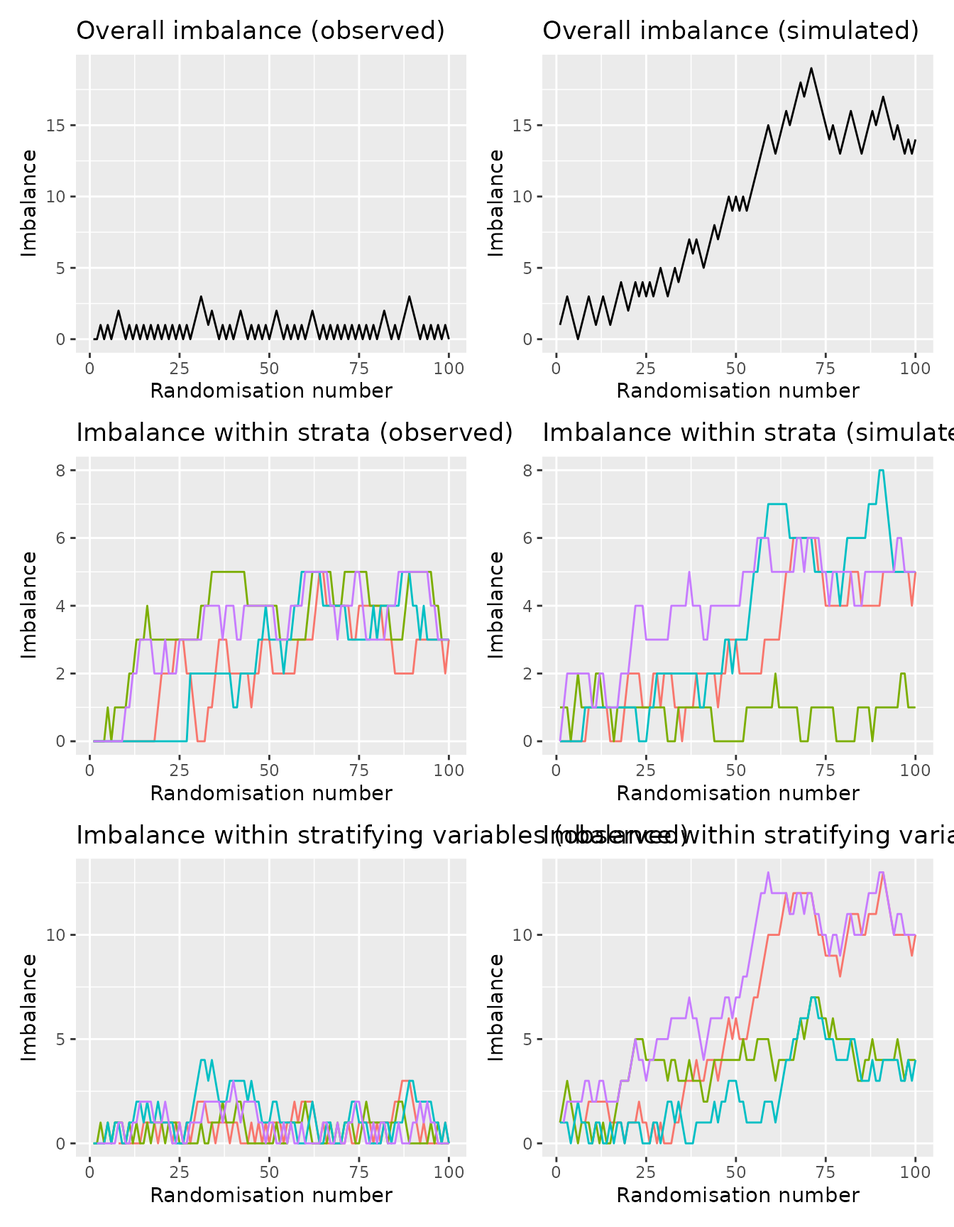
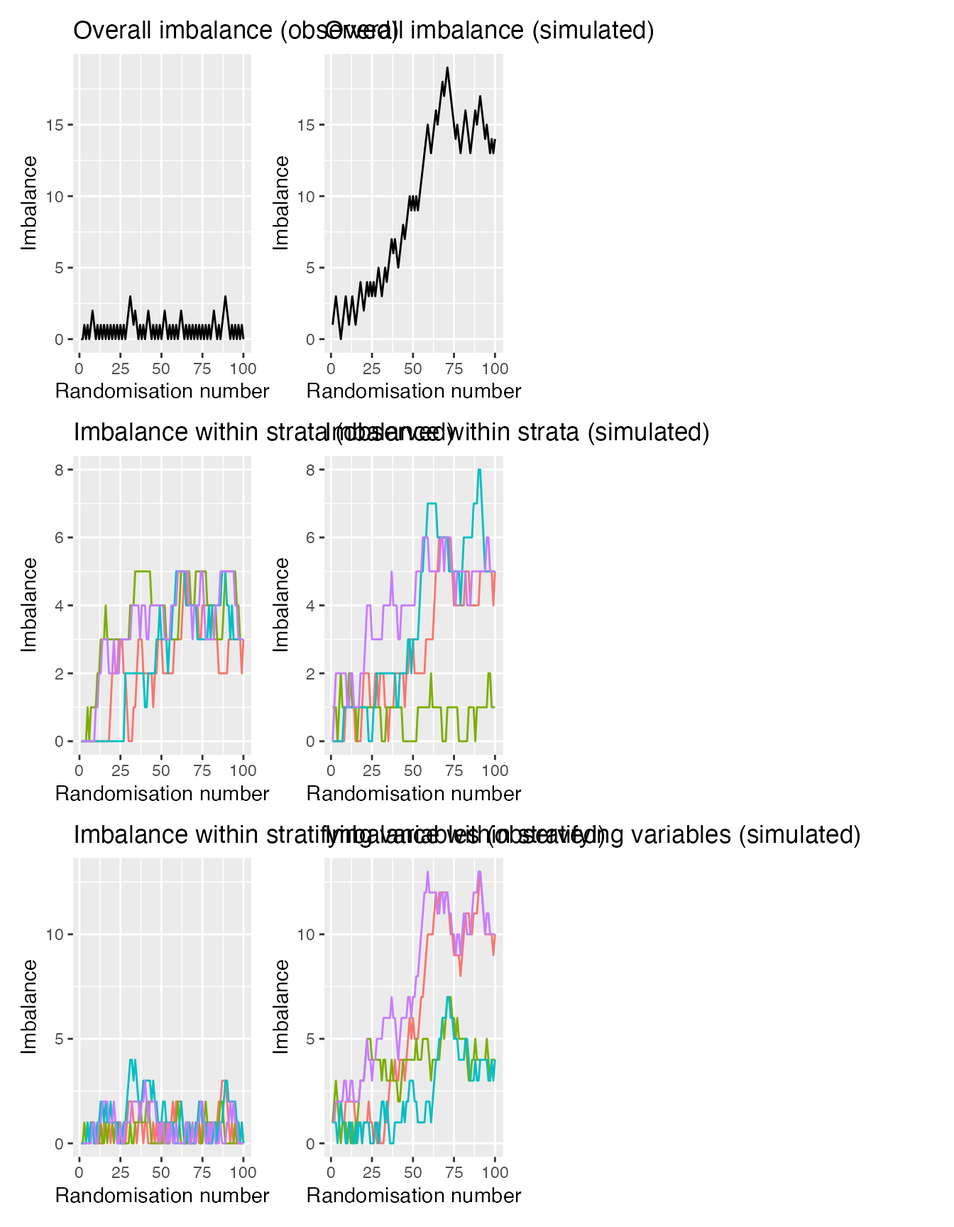
Deploying to gh-pages from @ aghaynes/randolist@fc12a616f27b094b2c52da7a669fd8df990e6f51 🚀

diff --git a/reference/imbalance_test.html b/reference/imbalance_test.html
@@ -9,7 +9,7 @@ expected via a random draw, via a permutation test."><meta property="og:image" c
 
     <a class="navbar-brand me-2" href="../index.html">randotools</a>
 
-    <small class="nav-text text-muted me-auto" data-bs-toggle="tooltip" data-bs-placement="bottom" title="">0.1.0</small>
+    <small class="nav-text text-muted me-auto" data-bs-toggle="tooltip" data-bs-placement="bottom" title="">0.1.1</small>
 
 
     <button class="navbar-toggler" type="button" data-bs-toggle="collapse" data-bs-target="#navbar" aria-controls="navbar" aria-expanded="false" aria-label="Toggle navigation">
@@ -112,43 +112,31 @@ levels in <code>randovar</code> are used and assumed to be balanced</p></dd>
 <span class="r-in"><span><span class="co"># without stratification variables</span></span></span>
 <span class="r-in"><span><span class="fu">imbalance_test</span><span class="op">(</span><span class="va">rando_balance</span>, <span class="st">"rando_res"</span><span class="op">)</span></span></span>
 <span class="r-msg co"><span class="r-pr">#&gt;</span> assuming balanced randomisation between arms</span>
-<span class="r-msg co"><span class="r-pr">#&gt;</span> Simulating randomisations <span style="color: #00BB00;">■■■■■■■■■■■■■■■■■               </span>  52% | ETA:  2s</span>
 <span class="r-out co"><span class="r-pr">#&gt;</span> Randomisations to date: 100 </span>
 <span class="r-out co"><span class="r-pr">#&gt;</span> Overall imbalance: 0 </span>
-<span class="r-out co"><span class="r-pr">#&gt;</span>   Probability of less imbalance from random allocation: 0.072 </span>
+<span class="r-out co"><span class="r-pr">#&gt;</span>   Probability of equal or less imbalance from random allocation: 0.072 </span>
 <span class="r-in"><span><span class="va">imb</span> <span class="op">&lt;-</span> <span class="fu">imbalance_test</span><span class="op">(</span><span class="va">rando_balance</span>, <span class="st">"rando_res"</span>, stratavars <span class="op">=</span> <span class="st">"strat1"</span><span class="op">)</span></span></span>
 <span class="r-msg co"><span class="r-pr">#&gt;</span> assuming balanced randomisation between arms</span>
-<span class="r-msg co"><span class="r-pr">#&gt;</span> Simulating randomisations <span style="color: #00BB00;">■■■■■■■■■■                      </span>  31% | ETA:  9s</span>
-<span class="r-msg co"><span class="r-pr">#&gt;</span> Simulating randomisations <span style="color: #00BB00;">■■■■■■■■■■■■■■■■■■■■■■■■■       </span>  78% | ETA:  3s</span>
+<span class="r-msg co"><span class="r-pr">#&gt;</span> Simulating randomisations <span style="color: #00BB00;">■■■■■■■■■■■■■■■■■■■             </span>  61% | ETA:  3s</span>
 <span class="r-in"><span><span class="fu">imbalance_test</span><span class="op">(</span><span class="va">rando_balance</span>, <span class="st">"rando_res"</span>, stratavars <span class="op">=</span> <span class="fu"><a href="https://rdrr.io/r/base/c.html" class="external-link">c</a></span><span class="op">(</span><span class="st">"strat1"</span>, <span class="st">"strat2"</span><span class="op">)</span><span class="op">)</span></span></span>
 <span class="r-msg co"><span class="r-pr">#&gt;</span> assuming balanced randomisation between arms</span>
-<span class="r-msg co"><span class="r-pr">#&gt;</span> Simulating randomisations <span style="color: #00BB00;">■■■■                            </span>  11% | ETA: 27s</span>
-<span class="r-msg co"><span class="r-pr">#&gt;</span> Simulating randomisations <span style="color: #00BB00;">■■■■■■■■■■                      </span>  32% | ETA: 20s</span>
-<span class="r-msg co"><span class="r-pr">#&gt;</span> Simulating randomisations <span style="color: #00BB00;">■■■■■■■■■■■■■■                  </span>  42% | ETA: 17s</span>
-<span class="r-msg co"><span class="r-pr">#&gt;</span> Simulating randomisations <span style="color: #00BB00;">■■■■■■■■■■■■■■■■■               </span>  52% | ETA: 14s</span>
-<span class="r-msg co"><span class="r-pr">#&gt;</span> Simulating randomisations <span style="color: #00BB00;">■■■■■■■■■■■■■■■■■■■■            </span>  62% | ETA: 11s</span>
-<span class="r-msg co"><span class="r-pr">#&gt;</span> Simulating randomisations <span style="color: #00BB00;">■■■■■■■■■■■■■■■■■■■■■■■         </span>  73% | ETA:  8s</span>
-<span class="r-msg co"><span class="r-pr">#&gt;</span> Simulating randomisations <span style="color: #00BB00;">■■■■■■■■■■■■■■■■■■■■■■■■■■      </span>  83% | ETA:  5s</span>
-<span class="r-msg co"><span class="r-pr">#&gt;</span> Simulating randomisations <span style="color: #00BB00;">■■■■■■■■■■■■■■■■■■■■■■■■■■■■■   </span>  93% | ETA:  2s</span>
+<span class="r-msg co"><span class="r-pr">#&gt;</span> Simulating randomisations <span style="color: #00BB00;">■■■■■■■■■■                      </span>  29% | ETA: 10s</span>
+<span class="r-msg co"><span class="r-pr">#&gt;</span> Simulating randomisations <span style="color: #00BB00;">■■■■■■■■■■■■■■■■■■■■■■■         </span>  72% | ETA:  4s</span>
+<span class="r-msg co"><span class="r-pr">#&gt;</span> Simulating randomisations <span style="color: #00BB00;">■■■■■■■■■■■■■■■■■■■■■■■■■■■■■   </span>  95% | ETA:  1s</span>
 <span class="r-out co"><span class="r-pr">#&gt;</span> Randomisations to date: 100 </span>
 <span class="r-out co"><span class="r-pr">#&gt;</span> Overall imbalance: 0 </span>
-<span class="r-out co"><span class="r-pr">#&gt;</span>   Probability of less imbalance from random allocation: 0.079 </span>
+<span class="r-out co"><span class="r-pr">#&gt;</span>   Probability of equal or less imbalance from random allocation: 0.079 </span>
 <span class="r-out co"><span class="r-pr">#&gt;</span> </span>
 <span class="r-out co"><span class="r-pr">#&gt;</span> Randomisation stratified by strat1 and strat2 </span>
 <span class="r-out co"><span class="r-pr">#&gt;</span> Maximum observed imbalanced within stratifying variables: 0 </span>
-<span class="r-out co"><span class="r-pr">#&gt;</span>   Probability of less imbalance from random allocation: 0.079 </span>
+<span class="r-out co"><span class="r-pr">#&gt;</span>   Probability of equal or less imbalance from random allocation: 0.079 </span>
 <span class="r-out co"><span class="r-pr">#&gt;</span> Maximum observed imbalanced within individual strata: 3 </span>
-<span class="r-out co"><span class="r-pr">#&gt;</span>   Probability of less imbalance from random allocation: 0.109 </span>
+<span class="r-out co"><span class="r-pr">#&gt;</span>   Probability of equal or less imbalance from random allocation: 0.109 </span>
 <span class="r-in"><span><span class="va">imb</span> <span class="op">&lt;-</span> <span class="fu">imbalance_test</span><span class="op">(</span><span class="va">rando_balance</span>, <span class="st">"rando_res2"</span>, stratavars <span class="op">=</span> <span class="fu"><a href="https://rdrr.io/r/base/c.html" class="external-link">c</a></span><span class="op">(</span><span class="st">"strat1"</span>, <span class="st">"strat2"</span><span class="op">)</span><span class="op">)</span></span></span>
 <span class="r-msg co"><span class="r-pr">#&gt;</span> assuming balanced randomisation between arms</span>
-<span class="r-msg co"><span class="r-pr">#&gt;</span> Simulating randomisations <span style="color: #00BB00;">■■■■■                           </span>  14% | ETA: 25s</span>
-<span class="r-msg co"><span class="r-pr">#&gt;</span> Simulating randomisations <span style="color: #00BB00;">■■■■■■■■■■■                     </span>  35% | ETA: 19s</span>
-<span class="r-msg co"><span class="r-pr">#&gt;</span> Simulating randomisations <span style="color: #00BB00;">■■■■■■■■■■■■■■■                 </span>  45% | ETA: 16s</span>
-<span class="r-msg co"><span class="r-pr">#&gt;</span> Simulating randomisations <span style="color: #00BB00;">■■■■■■■■■■■■■■■■■■              </span>  56% | ETA: 13s</span>
-<span class="r-msg co"><span class="r-pr">#&gt;</span> Simulating randomisations <span style="color: #00BB00;">■■■■■■■■■■■■■■■■■■■■■           </span>  66% | ETA: 10s</span>
-<span class="r-msg co"><span class="r-pr">#&gt;</span> Simulating randomisations <span style="color: #00BB00;">■■■■■■■■■■■■■■■■■■■■■■■■        </span>  76% | ETA:  7s</span>
-<span class="r-msg co"><span class="r-pr">#&gt;</span> Simulating randomisations <span style="color: #00BB00;">■■■■■■■■■■■■■■■■■■■■■■■■■■■     </span>  87% | ETA:  4s</span>
-<span class="r-msg co"><span class="r-pr">#&gt;</span> Simulating randomisations <span style="color: #00BB00;">■■■■■■■■■■■■■■■■■■■■■■■■■■■■■■  </span>  97% | ETA:  1s</span>
+<span class="r-msg co"><span class="r-pr">#&gt;</span> Simulating randomisations <span style="color: #00BB00;">■■■■■■                          </span>  17% | ETA: 11s</span>
+<span class="r-msg co"><span class="r-pr">#&gt;</span> Simulating randomisations <span style="color: #00BB00;">■■■■■■■■■■■■■■■■■■■■            </span>  62% | ETA:  5s</span>
+<span class="r-msg co"><span class="r-pr">#&gt;</span> Simulating randomisations <span style="color: #00BB00;">■■■■■■■■■■■■■■■■■■■■■■■■■■■     </span>  85% | ETA:  2s</span>
 </code></pre></div>
     </div>
   </main><aside class="col-md-3"><nav id="toc" aria-label="Table of contents"><h2>On this page</h2>

diff --git a/reference/imbalance_test_plot.html b/reference/imbalance_test_plot.html
@@ -1,8 +1,8 @@
 <!DOCTYPE html>
-<!-- Generated by pkgdown: do not edit by hand --><html lang="en"><head><meta http-equiv="Content-Type" content="text/html; charset=UTF-8"><meta charset="utf-8"><meta http-equiv="X-UA-Compatible" content="IE=edge"><meta name="viewport" content="width=device-width, initial-scale=1, shrink-to-fit=no"><title>Plot imbalance and simulation and test results — imbalance_test_plot • randotools</title><!-- favicons --><link rel="icon" type="image/png" sizes="96x96" href="../favicon-96x96.png"><link rel="icon" type="”image/svg+xml”" href="../favicon.svg"><link rel="apple-touch-icon" sizes="180x180" href="../apple-touch-icon.png"><link rel="icon" sizes="any" href="../favicon.ico"><link rel="manifest" href="../site.webmanifest"><script src="../lightswitch.js"></script><script src="../deps/jquery-3.6.0/jquery-3.6.0.min.js"></script><meta name="viewport" content="width=device-width, initial-scale=1, shrink-to-fit=no"><link href="../deps/bootstrap-5.3.1/bootstrap.min.css" rel="stylesheet"><script src="../deps/bootstrap-5.3.1/bootstrap.bundle.min.js"></script><link href="../deps/font-awesome-6.5.2/css/all.min.css" rel="stylesheet"><link href="../deps/font-awesome-6.5.2/css/v4-shims.min.css" rel="stylesheet"><script src="../deps/headroom-0.11.0/headroom.min.js"></script><script src="../deps/headroom-0.11.0/jQuery.headroom.min.js"></script><script src="../deps/bootstrap-toc-1.0.1/bootstrap-toc.min.js"></script><script src="../deps/clipboard.js-2.0.11/clipboard.min.js"></script><script src="../deps/search-1.0.0/autocomplete.jquery.min.js"></script><script src="../deps/search-1.0.0/fuse.min.js"></script><script src="../deps/search-1.0.0/mark.min.js"></script><!-- pkgdown --><script src="../pkgdown.js"></script><meta property="og:title" content="Plot imbalance and simulation and test results — imbalance_test_plot"><meta name="description" content="Plot histograms of imbalance values from simulation results and a vertical
+<!-- Generated by pkgdown: do not edit by hand --><html lang="en"><head><meta http-equiv="Content-Type" content="text/html; charset=UTF-8"><meta charset="utf-8"><meta http-equiv="X-UA-Compatible" content="IE=edge"><meta name="viewport" content="width=device-width, initial-scale=1, shrink-to-fit=no"><title>Plot imbalance and simulation and test results — imbalance_test_plot • randotools</title><!-- favicons --><link rel="icon" type="image/png" sizes="96x96" href="../favicon-96x96.png"><link rel="icon" type="”image/svg+xml”" href="../favicon.svg"><link rel="apple-touch-icon" sizes="180x180" href="../apple-touch-icon.png"><link rel="icon" sizes="any" href="../favicon.ico"><link rel="manifest" href="../site.webmanifest"><script src="../lightswitch.js"></script><script src="../deps/jquery-3.6.0/jquery-3.6.0.min.js"></script><meta name="viewport" content="width=device-width, initial-scale=1, shrink-to-fit=no"><link href="../deps/bootstrap-5.3.1/bootstrap.min.css" rel="stylesheet"><script src="../deps/bootstrap-5.3.1/bootstrap.bundle.min.js"></script><link href="../deps/font-awesome-6.5.2/css/all.min.css" rel="stylesheet"><link href="../deps/font-awesome-6.5.2/css/v4-shims.min.css" rel="stylesheet"><script src="../deps/headroom-0.11.0/headroom.min.js"></script><script src="../deps/headroom-0.11.0/jQuery.headroom.min.js"></script><script src="../deps/bootstrap-toc-1.0.1/bootstrap-toc.min.js"></script><script src="../deps/clipboard.js-2.0.11/clipboard.min.js"></script><script src="../deps/search-1.0.0/autocomplete.jquery.min.js"></script><script src="../deps/search-1.0.0/fuse.min.js"></script><script src="../deps/search-1.0.0/mark.min.js"></script><!-- pkgdown --><script src="../pkgdown.js"></script><meta property="og:title" content="Plot imbalance and simulation and test results — imbalance_test_plot"><meta name="description" content="Plot histograms of imbalance values from simulated random allocation and a vertical
 lines to indicate the observed imbalance for each randomisation level (overall,
 stratification variable level, and strata level, where appropriate). The
-p-values from the tests are included in the figure captions."><meta property="og:description" content="Plot histograms of imbalance values from simulation results and a vertical
+p-values from the tests are included in the figure captions."><meta property="og:description" content="Plot histograms of imbalance values from simulated random allocation and a vertical
 lines to indicate the observed imbalance for each randomisation level (overall,
 stratification variable level, and strata level, where appropriate). The
 p-values from the tests are included in the figure captions."><meta property="og:image" content="https://CTU-Bern.github.io/randolist/logo.png"></head><body>
@@ -13,7 +13,7 @@ p-values from the tests are included in the figure captions."><meta property="og
 
     <a class="navbar-brand me-2" href="../index.html">randotools</a>
 
-    <small class="nav-text text-muted me-auto" data-bs-toggle="tooltip" data-bs-placement="bottom" title="">0.1.0</small>
+    <small class="nav-text text-muted me-auto" data-bs-toggle="tooltip" data-bs-placement="bottom" title="">0.1.1</small>
 
 
     <button class="navbar-toggler" type="button" data-bs-toggle="collapse" data-bs-target="#navbar" aria-controls="navbar" aria-expanded="false" aria-label="Toggle navigation">
@@ -44,7 +44,7 @@ p-values from the tests are included in the figure captions."><meta property="og
     </div>
 
     <div class="ref-description section level2">
-    <p>Plot histograms of imbalance values from simulation results and a vertical
+    <p>Plot histograms of imbalance values from simulated random allocation and a vertical
 lines to indicate the observed imbalance for each randomisation level (overall,
 stratification variable level, and strata level, where appropriate). The
 p-values from the tests are included in the figure captions.</p>
@@ -84,13 +84,8 @@ plots in one column (<code>TRUE</code>) or return a list of ggplot objects (<cod
 <span class="r-in"><span><span class="co"># without stratification variables</span></span></span>
 <span class="r-in"><span><span class="va">imb</span> <span class="op">&lt;-</span> <span class="fu"><a href="imbalance_test.html">imbalance_test</a></span><span class="op">(</span><span class="va">rando_balance</span>, <span class="st">"rando_res2"</span>, stratavars <span class="op">=</span> <span class="fu"><a href="https://rdrr.io/r/base/c.html" class="external-link">c</a></span><span class="op">(</span><span class="st">"strat1"</span>, <span class="st">"strat2"</span><span class="op">)</span><span class="op">)</span></span></span>
 <span class="r-msg co"><span class="r-pr">#&gt;</span> assuming balanced randomisation between arms</span>
-<span class="r-msg co"><span class="r-pr">#&gt;</span> Simulating randomisations <span style="color: #00BB00;">■■■■■■                          </span>  17% | ETA: 24s</span>
-<span class="r-msg co"><span class="r-pr">#&gt;</span> Simulating randomisations <span style="color: #00BB00;">■■■■■■■■■■■■                    </span>  38% | ETA: 18s</span>
-<span class="r-msg co"><span class="r-pr">#&gt;</span> Simulating randomisations <span style="color: #00BB00;">■■■■■■■■■■■■■■■■                </span>  48% | ETA: 15s</span>
-<span class="r-msg co"><span class="r-pr">#&gt;</span> Simulating randomisations <span style="color: #00BB00;">■■■■■■■■■■■■■■■■■■■             </span>  59% | ETA: 12s</span>
-<span class="r-msg co"><span class="r-pr">#&gt;</span> Simulating randomisations <span style="color: #00BB00;">■■■■■■■■■■■■■■■■■■■■■■          </span>  69% | ETA:  9s</span>
-<span class="r-msg co"><span class="r-pr">#&gt;</span> Simulating randomisations <span style="color: #00BB00;">■■■■■■■■■■■■■■■■■■■■■■■■■       </span>  80% | ETA:  6s</span>
-<span class="r-msg co"><span class="r-pr">#&gt;</span> Simulating randomisations <span style="color: #00BB00;">■■■■■■■■■■■■■■■■■■■■■■■■■■■■    </span>  90% | ETA:  3s</span>
+<span class="r-msg co"><span class="r-pr">#&gt;</span> Simulating randomisations <span style="color: #00BB00;">■■■■■■■■■■                      </span>  31% | ETA:  9s</span>
+<span class="r-msg co"><span class="r-pr">#&gt;</span> Simulating randomisations <span style="color: #00BB00;">■■■■■■■■■■■■■■■■■■■■■■■■        </span>  77% | ETA:  3s</span>
 <span class="r-in"><span><span class="fu">imbalance_test_plot</span><span class="op">(</span><span class="va">imb</span><span class="op">)</span></span></span>
 <span class="r-plt img"><img src="imbalance_test_plot-1.png" alt="" width="700" height="433"></span>
 <span class="r-in"><span></span></span>

diff --git a/reference/imbalance_seq_plots.html b/reference/imbalance_seq_plots.html
@@ -19,7 +19,7 @@ variables) and within strata identified by each stratifying variable itself."><m
 
     <a class="navbar-brand me-2" href="../index.html">randotools</a>
 
-    <small class="nav-text text-muted me-auto" data-bs-toggle="tooltip" data-bs-placement="bottom" title="">0.1.0</small>
+    <small class="nav-text text-muted me-auto" data-bs-toggle="tooltip" data-bs-placement="bottom" title="">0.1.1</small>
 
 
     <button class="navbar-toggler" type="button" data-bs-toggle="collapse" data-bs-target="#navbar" aria-controls="navbar" aria-expanded="false" aria-label="Toggle navigation">
@@ -61,7 +61,13 @@ variables) and within strata identified by each stratifying variable itself.</p>
 
     <div class="section level2">
     <h2 id="ref-usage">Usage<a class="anchor" aria-label="anchor" href="#ref-usage"></a></h2>
-    <div class="sourceCode"><pre class="sourceCode r"><code><span><span class="fu">imbalance_seq_plots</span><span class="op">(</span><span class="va">data</span>, <span class="va">randovar</span>, stratavars <span class="op">=</span> <span class="cn">NULL</span>, cross <span class="op">=</span> <span class="cn">TRUE</span><span class="op">)</span></span></code></pre></div>
+    <div class="sourceCode"><pre class="sourceCode r"><code><span><span class="fu">imbalance_seq_plots</span><span class="op">(</span></span>
+<span>  <span class="va">data</span>,</span>
+<span>  <span class="va">randovar</span>,</span>
+<span>  stratavars <span class="op">=</span> <span class="cn">NULL</span>,</span>
+<span>  cross <span class="op">=</span> <span class="cn">TRUE</span>,</span>
+<span>  stack <span class="op">=</span> <span class="cn">TRUE</span></span>
+<span><span class="op">)</span></span></code></pre></div>
     </div>
 
     <div class="section level2">
@@ -84,6 +90,11 @@ variables) and within strata identified by each stratifying variable itself.</p>
 <dd><p>logical whether to cross the stratification variables to create
 the individual strata</p></dd>
 
+
+<dt id="arg-stack">stack<a class="anchor" aria-label="anchor" href="#arg-stack"></a></dt>
+<dd><p>logical whether to use <code><a href="https://patchwork.data-imaginist.com/reference/wrap_plots.html" class="external-link">patchwork::wrap_plots</a></code> to combine the
+plots into a single 2x3 figure</p></dd>
+
 </dl></div>
     <div class="section level2">
     <h2 id="value">Value<a class="anchor" aria-label="anchor" href="#value"></a></h2>
@@ -96,7 +107,8 @@ E.g., if there is a 2-level stratification variable and a 3-level variable, ther
 will be 5 lines.</p></li>
 <li><p>The third pair shows the individual strata - the combination of all stratification
 variables. For the 2- and 3-level example mentioned above, this would result
-in 6 lines. This can be skipped by setting <code>cross</code> to <code>FALSE</code>.</p></li>
+in 6 lines. This can be skipped by setting <code>cross</code> to <code>FALSE</code>.
+If <code>stack = FALSE</code>, a list of ggplots is returned.</p></li>
 </ul></div>
 
     <div class="section level2">
@@ -106,12 +118,7 @@ in 6 lines. This can be skipped by setting <code>cross</code> to <code>FALSE</co
 <span class="r-in"><span><span class="fu">imbalance_seq_plots</span><span class="op">(</span><span class="va">rando_balance</span>, <span class="st">"rando_res"</span><span class="op">)</span></span></span>
 <span class="r-msg co"><span class="r-pr">#&gt;</span> Calculating sequential imbalance (overall)</span>
 <span class="r-msg co"><span class="r-pr">#&gt;</span> Calculating simulated sequential imbalance (overall)</span>
-<span class="r-out co"><span class="r-pr">#&gt;</span> $overall_observed</span>
 <span class="r-plt img"><img src="imbalance_seq_plots-1.png" alt="" width="700" height="433"></span>
-<span class="r-out co"><span class="r-pr">#&gt;</span> </span>
-<span class="r-out co"><span class="r-pr">#&gt;</span> $overall_simulated</span>
-<span class="r-plt img"><img src="imbalance_seq_plots-2.png" alt="" width="700" height="433"></span>
-<span class="r-out co"><span class="r-pr">#&gt;</span> </span>
 <span class="r-in"><span><span class="co"># with stratification factors</span></span></span>
 <span class="r-in"><span><span class="fu">imbalance_seq_plots</span><span class="op">(</span><span class="va">rando_balance</span>, <span class="st">"rando_res"</span>,</span></span>
 <span class="r-in"><span>                    <span class="fu"><a href="https://rdrr.io/r/base/c.html" class="external-link">c</a></span><span class="op">(</span><span class="st">"strat1"</span>, <span class="st">"strat2"</span><span class="op">)</span><span class="op">)</span></span></span>
@@ -119,24 +126,7 @@ in 6 lines. This can be skipped by setting <code>cross</code> to <code>FALSE</co
 <span class="r-msg co"><span class="r-pr">#&gt;</span> Calculating simulated sequential imbalance (overall)</span>
 <span class="r-msg co"><span class="r-pr">#&gt;</span> Calculating sequential imbalance (strata)</span>
 <span class="r-msg co"><span class="r-pr">#&gt;</span> Calculating simulated sequential imbalance (strata)</span>
-<span class="r-out co"><span class="r-pr">#&gt;</span> $overall_observed</span>
-<span class="r-plt img"><img src="imbalance_seq_plots-3.png" alt="" width="700" height="433"></span>
-<span class="r-out co"><span class="r-pr">#&gt;</span> </span>
-<span class="r-out co"><span class="r-pr">#&gt;</span> $overall_simulated</span>
-<span class="r-plt img"><img src="imbalance_seq_plots-4.png" alt="" width="700" height="433"></span>
-<span class="r-out co"><span class="r-pr">#&gt;</span> </span>
-<span class="r-out co"><span class="r-pr">#&gt;</span> $strata_observed</span>
-<span class="r-plt img"><img src="imbalance_seq_plots-5.png" alt="" width="700" height="433"></span>
-<span class="r-out co"><span class="r-pr">#&gt;</span> </span>
-<span class="r-out co"><span class="r-pr">#&gt;</span> $strata_simulated</span>
-<span class="r-plt img"><img src="imbalance_seq_plots-6.png" alt="" width="700" height="433"></span>
-<span class="r-out co"><span class="r-pr">#&gt;</span> </span>
-<span class="r-out co"><span class="r-pr">#&gt;</span> $stratavar_oberved</span>
-<span class="r-plt img"><img src="imbalance_seq_plots-7.png" alt="" width="700" height="433"></span>
-<span class="r-out co"><span class="r-pr">#&gt;</span> </span>
-<span class="r-out co"><span class="r-pr">#&gt;</span> $stratavar_simulated</span>
-<span class="r-plt img"><img src="imbalance_seq_plots-8.png" alt="" width="700" height="433"></span>
-<span class="r-out co"><span class="r-pr">#&gt;</span> </span>
+<span class="r-plt img"><img src="imbalance_seq_plots-2.png" alt="" width="700" height="433"></span>
 <span class="r-in"><span><span class="co"># do not cross the stratification factors</span></span></span>
 <span class="r-in"><span><span class="fu">imbalance_seq_plots</span><span class="op">(</span><span class="va">rando_balance</span>, <span class="st">"rando_res"</span>,</span></span>
 <span class="r-in"><span>                    <span class="fu"><a href="https://rdrr.io/r/base/c.html" class="external-link">c</a></span><span class="op">(</span><span class="st">"strat1"</span>, <span class="st">"strat2"</span><span class="op">)</span>,</span></span>
@@ -145,18 +135,7 @@ in 6 lines. This can be skipped by setting <code>cross</code> to <code>FALSE</co
 <span class="r-msg co"><span class="r-pr">#&gt;</span> Calculating simulated sequential imbalance (overall)</span>
 <span class="r-msg co"><span class="r-pr">#&gt;</span> Calculating sequential imbalance (strata)</span>
 <span class="r-msg co"><span class="r-pr">#&gt;</span> Calculating simulated sequential imbalance (strata)</span>
-<span class="r-out co"><span class="r-pr">#&gt;</span> $overall_observed</span>
-<span class="r-plt img"><img src="imbalance_seq_plots-9.png" alt="" width="700" height="433"></span>
-<span class="r-out co"><span class="r-pr">#&gt;</span> </span>
-<span class="r-out co"><span class="r-pr">#&gt;</span> $overall_simulated</span>
-<span class="r-plt img"><img src="imbalance_seq_plots-10.png" alt="" width="700" height="433"></span>
-<span class="r-out co"><span class="r-pr">#&gt;</span> </span>
-<span class="r-out co"><span class="r-pr">#&gt;</span> $stratavar_oberved</span>
-<span class="r-plt img"><img src="imbalance_seq_plots-11.png" alt="" width="700" height="433"></span>
-<span class="r-out co"><span class="r-pr">#&gt;</span> </span>
-<span class="r-out co"><span class="r-pr">#&gt;</span> $stratavar_simulated</span>
-<span class="r-plt img"><img src="imbalance_seq_plots-12.png" alt="" width="700" height="433"></span>
-<span class="r-out co"><span class="r-pr">#&gt;</span> </span>
+<span class="r-plt img"><img src="imbalance_seq_plots-3.png" alt="" width="700" height="433"></span>
 <span class="r-in"><span></span></span>
 </code></pre></div>
     </div>

diff --git a/index.html b/index.html
@@ -28,7 +28,7 @@
 
     <a class="navbar-brand me-2" href="index.html">randotools</a>
 
-    <small class="nav-text text-muted me-auto" data-bs-toggle="tooltip" data-bs-placement="bottom" title="">0.1.0</small>
+    <small class="nav-text text-muted me-auto" data-bs-toggle="tooltip" data-bs-placement="bottom" title="">0.1.1</small>
 
 
     <button class="navbar-toggler" type="button" data-bs-toggle="collapse" data-bs-target="#navbar" aria-controls="navbar" aria-expanded="false" aria-label="Toggle navigation">
@@ -75,7 +75,7 @@
 <p>You can install the development version of <code>randotools</code> from github with:</p>
 <!-- install.packages("randotools") -->
 <div class="sourceCode" id="cb1"><pre class="downlit sourceCode r">
-<code class="sourceCode R"><span><span class="fu">remotes</span><span class="fu">::</span><span class="fu">install_github</span><span class="op">(</span><span class="st">"CTU-Bern/randotools"</span><span class="op">)</span></span></code></pre></div>
+<code class="sourceCode R"><span><span class="fu">remotes</span><span class="fu">::</span><span class="fu"><a href="https://remotes.r-lib.org/reference/install_github.html" class="external-link">install_github</a></span><span class="op">(</span><span class="st">"CTU-Bern/randotools"</span><span class="op">)</span></span></code></pre></div>
 <!-- Or from CTU Bern's package universe -->
 <!-- ``` r -->
 <!-- install.packages("randotools", repos = c('https://ctu-bern.r-universe.dev', 'https://cloud.r-project.org')) -->
@@ -174,7 +174,7 @@
 <div class="dev-status">
 <h2 data-toc-skip>Dev status</h2>
 <ul class="list-unstyled">
-<li><a href="https://github.com/CTU-Bern/randotools" class="external-link"><img src="https://img.shields.io/badge/dev%20version-0.1.0-blue.svg"></a></li>
+<li><a href="https://github.com/CTU-Bern/randotools" class="external-link"><img src="https://img.shields.io/badge/dev%20version-0.1.1-blue.svg"></a></li>
 <li><a href="https://github.com/CTU-Bern/randotools/actions" class="external-link"><img src="https://github.com/CTU-Bern/randotools/workflows/R-CMD-check/badge.svg" alt="R-CMD-check"></a></li>
 </ul>
 </div>

diff --git a/articles/imbalance.html b/articles/imbalance.html
@@ -25,7 +25,7 @@
 
     <a class="navbar-brand me-2" href="../index.html">randotools</a>
 
-    <small class="nav-text text-muted me-auto" data-bs-toggle="tooltip" data-bs-placement="bottom" title="">0.1.0</small>
+    <small class="nav-text text-muted me-auto" data-bs-toggle="tooltip" data-bs-placement="bottom" title="">0.1.1</small>
 
 
     <button class="navbar-toggler" type="button" data-bs-toggle="collapse" data-bs-target="#navbar" aria-controls="navbar" aria-expanded="false" aria-label="Toggle navigation">
@@ -152,13 +152,13 @@ want a small p-value.</p>
 <span><span class="va">imb</span></span>
 <span><span class="co">#&gt; Randomisations to date: 100 </span></span>
 <span><span class="co">#&gt; Overall imbalance: 6 </span></span>
-<span><span class="co">#&gt;   Probability of less imbalance from random allocation: 0.498 </span></span>
+<span><span class="co">#&gt;   Probability of equal or less imbalance from random allocation: 0.498 </span></span>
 <span><span class="co">#&gt; </span></span>
 <span><span class="co">#&gt; Randomisation stratified by strat1 and strat2 </span></span>
 <span><span class="co">#&gt; Maximum observed imbalanced within stratifying variables: 4 </span></span>
-<span><span class="co">#&gt;   Probability of less imbalance from random allocation: 0.355 </span></span>
+<span><span class="co">#&gt;   Probability of equal or less imbalance from random allocation: 0.355 </span></span>
 <span><span class="co">#&gt; Maximum observed imbalanced within individual strata: 5 </span></span>
-<span><span class="co">#&gt;   Probability of less imbalance from random allocation: 0.364</span></span></code></pre></div>
+<span><span class="co">#&gt;   Probability of equal or less imbalance from random allocation: 0.364</span></span></code></pre></div>
 <p>The corresponding plots show the frequency of imbalance values in the
 random datasets (the bars). The red vertical line indicates that from
 the observed data. Ideally, the observed line would be to the left of

diff --git a/authors.html b/authors.html
@@ -7,7 +7,7 @@
 
     <a class="navbar-brand me-2" href="index.html">randotools</a>
 
-    <small class="nav-text text-muted me-auto" data-bs-toggle="tooltip" data-bs-placement="bottom" title="">0.1.0</small>
+    <small class="nav-text text-muted me-auto" data-bs-toggle="tooltip" data-bs-placement="bottom" title="">0.1.1</small>
 
 
     <button class="navbar-toggler" type="button" data-bs-toggle="collapse" data-bs-target="#navbar" aria-controls="navbar" aria-expanded="false" aria-label="Toggle navigation">
@@ -50,13 +50,13 @@
 
       <p>Haynes AG (2025).
 <em>randotools: Create Randomization Lists From R</em>.
-R package version 0.1.0, <a href="https://ctu-bern.github.io/randolist/" class="external-link">https://ctu-bern.github.io/randolist/</a>.
+R package version 0.1.1, <a href="https://ctu-bern.github.io/randolist/" class="external-link">https://ctu-bern.github.io/randolist/</a>.
 </p>
       <pre>@Manual{,
   title = {randotools: Create Randomization Lists From R},
   author = {Alan G Haynes},
   year = {2025},
-  note = {R package version 0.1.0},
+  note = {R package version 0.1.1},
   url = {https://ctu-bern.github.io/randolist/},
 }</pre>
     </div>

diff --git a/news/index.html b/news/index.html
@@ -7,7 +7,7 @@
 
     <a class="navbar-brand me-2" href="../index.html">randotools</a>
 
-    <small class="nav-text text-muted me-auto" data-bs-toggle="tooltip" data-bs-placement="bottom" title="">0.1.0</small>
+    <small class="nav-text text-muted me-auto" data-bs-toggle="tooltip" data-bs-placement="bottom" title="">0.1.1</small>
 
 
     <button class="navbar-toggler" type="button" data-bs-toggle="collapse" data-bs-target="#navbar" aria-controls="navbar" aria-expanded="false" aria-label="Toggle navigation">
@@ -36,6 +36,10 @@
 
     </div>
 
+    <div class="section level2">
+<h2 class="pkg-version" data-toc-text="0.1.1" id="randotools-011">randotools 0.1.1<a class="anchor" aria-label="anchor" href="#randotools-011"></a></h2>
+<p>Minor improvements suggested by @lbeuti</p>
+</div>
     <div class="section level2">
 <h2 class="pkg-version" data-toc-text="0.1.0" id="randotools-010">randotools 0.1.0<a class="anchor" aria-label="anchor" href="#randotools-010"></a></h2>
 <ul><li>addition of tools to assess the balance of randomised elements</li>

diff --git a/reference/rando_balance.html b/reference/rando_balance.html
@@ -11,7 +11,7 @@ strat2)."><meta property="og:image" content="https://CTU-Bern.github.io/randolis
 
     <a class="navbar-brand me-2" href="../index.html">randotools</a>
 
-    <small class="nav-text text-muted me-auto" data-bs-toggle="tooltip" data-bs-placement="bottom" title="">0.1.0</small>
+    <small class="nav-text text-muted me-auto" data-bs-toggle="tooltip" data-bs-placement="bottom" title="">0.1.1</small>
 
 
     <button class="navbar-toggler" type="button" data-bs-toggle="collapse" data-bs-target="#navbar" aria-controls="navbar" aria-expanded="false" aria-label="Toggle navigation">

diff --git a/reference/randolist_to_db.html b/reference/randolist_to_db.html
@@ -11,7 +11,7 @@ REDCap or secuTrial."><meta property="og:image" content="https://CTU-Bern.github
 
     <a class="navbar-brand me-2" href="../index.html">randotools</a>
 
-    <small class="nav-text text-muted me-auto" data-bs-toggle="tooltip" data-bs-placement="bottom" title="">0.1.0</small>
+    <small class="nav-text text-muted me-auto" data-bs-toggle="tooltip" data-bs-placement="bottom" title="">0.1.1</small>
 
 
     <button class="navbar-toggler" type="button" data-bs-toggle="collapse" data-bs-target="#navbar" aria-controls="navbar" aria-expanded="false" aria-label="Toggle navigation">

diff --git a/reference/randolist.html b/reference/randolist.html
@@ -9,7 +9,7 @@ to generate randomisation lists simply, via (optionally) stratified block random
 
     <a class="navbar-brand me-2" href="../index.html">randotools</a>
 
-    <small class="nav-text text-muted me-auto" data-bs-toggle="tooltip" data-bs-placement="bottom" title="">0.1.0</small>
+    <small class="nav-text text-muted me-auto" data-bs-toggle="tooltip" data-bs-placement="bottom" title="">0.1.1</small>
 
 
     <button class="navbar-toggler" type="button" data-bs-toggle="collapse" data-bs-target="#navbar" aria-controls="navbar" aria-expanded="false" aria-label="Toggle navigation">

diff --git a/reference/summary.randolist.html b/reference/summary.randolist.html
@@ -9,7 +9,7 @@ could be used for quality control."><meta property="og:image" content="https://C
 
     <a class="navbar-brand me-2" href="../index.html">randotools</a>
 
-    <small class="nav-text text-muted me-auto" data-bs-toggle="tooltip" data-bs-placement="bottom" title="">0.1.0</small>
+    <small class="nav-text text-muted me-auto" data-bs-toggle="tooltip" data-bs-placement="bottom" title="">0.1.1</small>
 
 
     <button class="navbar-toggler" type="button" data-bs-toggle="collapse" data-bs-target="#navbar" aria-controls="navbar" aria-expanded="false" aria-label="Toggle navigation">

diff --git a/404.html b/404.html
@@ -26,7 +26,7 @@
 
     <a class="navbar-brand me-2" href="https://CTU-Bern.github.io/randolist/index.html">randotools</a>
 
-    <small class="nav-text text-muted me-auto" data-bs-toggle="tooltip" data-bs-placement="bottom" title="">0.1.0</small>
+    <small class="nav-text text-muted me-auto" data-bs-toggle="tooltip" data-bs-placement="bottom" title="">0.1.1</small>
 
 
     <button class="navbar-toggler" type="button" data-bs-toggle="collapse" data-bs-target="#navbar" aria-controls="navbar" aria-expanded="false" aria-label="Toggle navigation">
